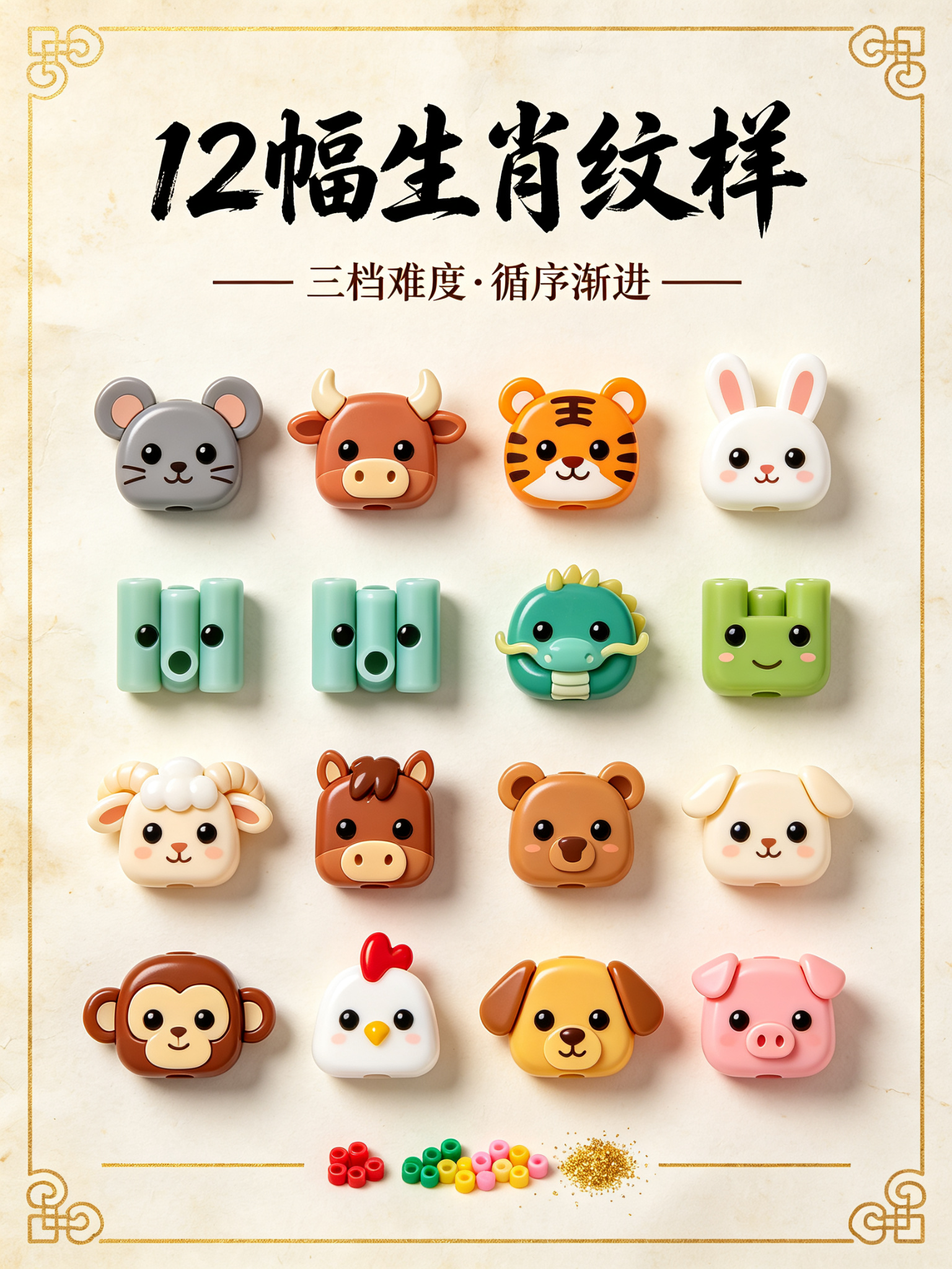
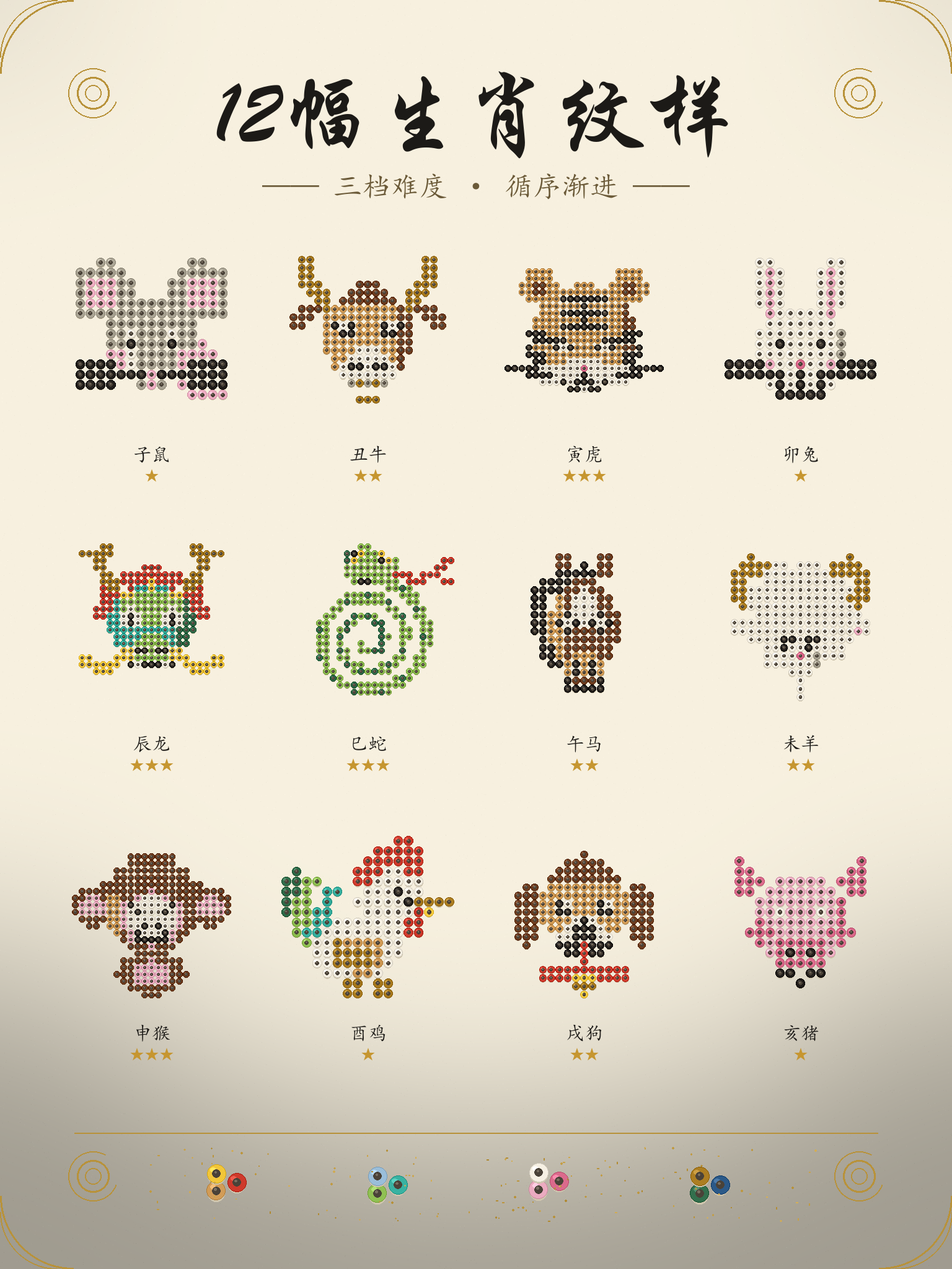
feat(perler-zodiac): 新增小红书P2图案库生成脚本

diff --git a/vibegame/perler-zodiac/_dev/_make_p2.py b/vibegame/perler-zodiac/_dev/_make_p2.py
@@ -1,0 +1,169 @@
+# -*- coding: utf-8 -*-
+"""重做小红书 P2（图案库）：用 patterns.json 真实网格逐颗渲染拼豆。
+
+每颗豆 = 管身圆 + 外缘暗边 + 左上高光 + 中心圆孔，彻底避免「光滑软胶玩具」感，
+且 12 生肖与应用内图案完全一致。
+运行：python _dev/_make_p2.py
+"""
+import json, math, os, random, sys
+
+sys.path.insert(0, os.path.dirname(os.path.abspath(__file__)))
+import patterns as P  # 复用 PAL 色卡
+from PIL import Image, ImageDraw, ImageFont, ImageFilter
+
+random.seed(20260910)
+BASE = os.path.dirname(os.path.abspath(__file__))
+ROOT = os.path.normpath(os.path.join(BASE, '..'))
+W, H = 1536, 2048
+
+DIFF = {'rat': 1, 'ox': 2, 'tiger': 3, 'rabbit': 1, 'dragon': 3, 'snake': 3,
+        'horse': 2, 'goat': 2, 'monkey': 3, 'rooster': 1, 'dog': 2, 'pig': 1}
+
+with open(os.path.join(BASE, 'patterns.json'), 'r', encoding='utf-8') as f:
+    PATS = json.load(f)
+
+FONT_TITLE = ImageFont.truetype(r'C:\Windows\Fonts\STXINGKA.TTF', 148)
+FONT_SUB = ImageFont.truetype(r'C:\Windows\Fonts\simkai.ttf', 46)
+FONT_LBL = ImageFont.truetype(r'C:\Windows\Fonts\simkai.ttf', 30)
+FONT_STAR = ImageFont.truetype(r'C:\Windows\Fonts\simhei.ttf', 24)
+
+CREAM = (246, 239, 221)
+INK = (28, 26, 23)
+MUTE = (107, 90, 56)
+GOLD = (184, 146, 58)
+HOLE = (74, 66, 56)
+
+
+def hx(h):
+    h = h.lstrip('#')
+    return (int(h[0:2], 16), int(h[2:4], 16), int(h[4:6], 16))
+
+
+def shift(c, d):
+    return tuple(max(0, min(255, x + d)) for x in c)
+
+
+# ---------- 背景 ----------
+img = Image.new('RGB', (W, H), CREAM)
+# 暖色轻晕
+glow = Image.new('RGB', (W, H), (0, 0, 0))
+gd = ImageDraw.Draw(glow)
+gd.ellipse([-300, -300, W + 300, H * 0.9], fill=(250, 244, 228))
+glow = glow.filter(ImageFilter.GaussianBlur(160))
+img = Image.blend(img, glow, 0.35)
+# 宣纸噪点
+px = img.load()
+for _ in range(26000):
+    x = random.randint(0, W - 1); y = random.randint(0, H - 1)
+    d = random.randint(-9, 7)
+    r, g, b = px[x, y]
+    px[x, y] = (max(0, min(255, r + d)), max(0, min(255, g + d)),
+                max(0, min(255, b + d)))
+
+dr = ImageDraw.Draw(img)
+
+
+# ---------- 金色祥云角花 ----------
+def corner(cx_dir, cy_dir):
+    """以四角定位绘制金色双线卷云角花。"""
+    def pt(x, y):  # 局部坐标(以角为原点, 向内为正) -> 全局
+        gx = x if cx_dir == 1 else W - x
+        gy = y if cy_dir == 1 else H - y
+        return gx, gy
+    for rr, wdt in ((118, 3), (92, 2)):
+        box = [0, 0, rr * 2, rr * 2]
+        # 只取朝内的四分之一弧
+        b = [pt(0, 0)[0], pt(0, 0)[1], pt(rr * 2, rr * 2)[0],
+             pt(rr * 2, rr * 2)[1]]
+        b = [min(b[0], b[2]), min(b[1], b[3]), max(b[0], b[2]), max(b[1], b[3])]
+        start = 0 if (cx_dir, cy_dir) == (-1, -1) else \
+                90 if (cx_dir, cy_dir) == (1, -1) else \
+                180 if (cx_dir, cy_dir) == (1, 1) else 270
+        dr.arc(b, start, start + 90, fill=GOLD, width=wdt)
+    # 小螺旋云头
+    hx0, hy0 = pt(150, 150)
+    for rr, wdt in ((26, 3), (13, 2)):
+        dr.ellipse([hx0 - rr, hy0 - rr, hx0 + rr, hy0 + rr],
+                   outline=GOLD, width=wdt)
+    dr.arc([hx0 - 40, hy0 - 40, hx0 + 40, hy0 + 40], 20, 300,
+           fill=GOLD, width=2)
+
+
+corner(1, 1); corner(-1, 1); corner(1, -1); corner(-1, -1)
+
+
+# ---------- 标题 ----------
+dr.text((W // 2, 190), '12幅生肖纹样', font=FONT_TITLE, fill=INK, anchor='mm')
+dr.text((W // 2, 300), '—— 三档难度 · 循序渐进 ——', font=FONT_SUB,
+        fill=MUTE, anchor='mm')
+
+
+# ---------- 单颗拼豆 ----------
+def bead(g, x, y, r, hexs):
+    c = hx(hexs)
+    j = random.randint(-4, 4)
+    c = shift(c, j)
+    # 落地投影（略深于宣纸的暖灰椭圆，向下偏移）
+    g.ellipse([x - r * 0.92, y - r * 0.62, x + r * 0.92, y + r * 1.18],
+              fill=(208, 198, 174))
+    # 管身
+    g.ellipse([x - r, y - r, x + r, y + r], fill=c,
+              outline=shift(c, -34), width=max(1, int(r * 0.12)))
+    # 左上高光
+    g.ellipse([x - r * 0.62, y - r * 0.66, x - r * 0.04, y - r * 0.18],
+              fill=shift(c, 34))
+    # 中心圆孔
+    rh = r * 0.42
+    g.ellipse([x - rh, y - rh, x + rh, y + rh], fill=HOLE)
+    g.ellipse([x - rh * 0.5, y - rh * 0.62, x + rh * 0.12, y - rh * 0.08],
+              fill=(120, 110, 96))
+
+
+# ---------- 12 生肖 4×3 ----------
+MX, TOP, BOT = 70, 360, 1760
+cols, rows = 4, 3
+tw = (W - MX * 2) / cols
+th = (BOT - TOP) / rows
+
+for idx, p in enumerate(PATS):
+    cx0 = MX + (idx % cols) * tw
+    cy0 = TOP + (idx // cols) * th
+    n = p['n']
+    pitch = min((tw * 0.80) / n, (th * 0.74) / n)
+    gw = pitch * n
+    ox = cx0 + (tw - gw) / 2
+    oy = cy0 + (th * 0.74 - gw) / 2 + 6
+    r = pitch * 0.44
+    for j in range(n):
+        for i in range(n):
+            ch = p['grid'][j][i]
+            if ch == '.':
+                continue
+            bx = ox + (i + 0.5) * pitch
+            by = oy + (j + 0.5) * pitch
+            bead(dr, bx, by, r, P.PAL[ch])
+    # 名称 + 难度
+    ly = cy0 + th * 0.80
+    dr.text((cx0 + tw / 2, ly), p['name'], font=FONT_LBL, fill=INK,
+            anchor='mm')
+    stars = '★' * DIFF[p['id']]
+    dr.text((cx0 + tw / 2, ly + 34), stars, font=FONT_STAR,
+            fill=(198, 150, 48), anchor='mm')
+
+# ---------- 底部金线 + 散落拼豆 ----------
+dr.line([120, 1828, W - 120, 1828], fill=GOLD, width=2)
+piles = [(360, 1908, ['r', 'o', 'y']), (620, 1912, ['t', 'g', 'c']),
+         (880, 1906, ['p', 'l', 'w']), (1140, 1912, ['b', 'n', 'd'])]
+for px0, py0, codes in piles:
+    for k, code in enumerate(codes):
+        ang = k * 2.1
+        bead(dr, px0 + math.cos(ang) * 22, py0 + math.sin(ang) * 16,
+             15, P.PAL[code])
+for _ in range(130):
+    x = random.randint(220, W - 220); y = random.randint(1850, 1970)
+    dr.ellipse([x, y, x + random.randint(1, 3), y + random.randint(1, 3)],
+               fill=shift(GOLD, random.randint(-10, 30)))
+
+out = os.path.join(ROOT, 'xiaohongshu', 'p2_patterns.png')
+img.save(out)
+print('saved', out, img.size)
